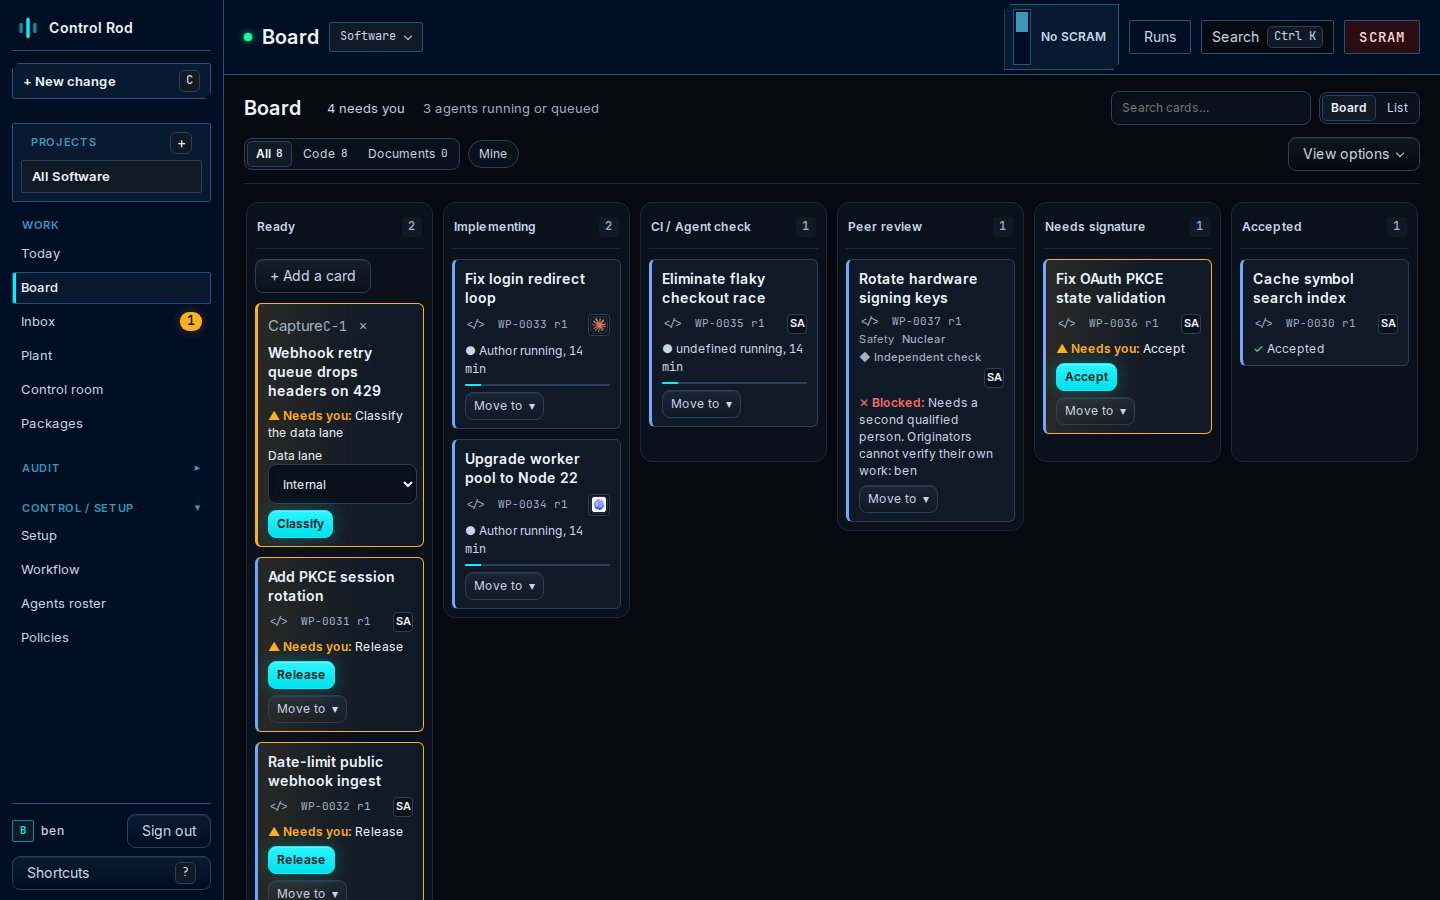
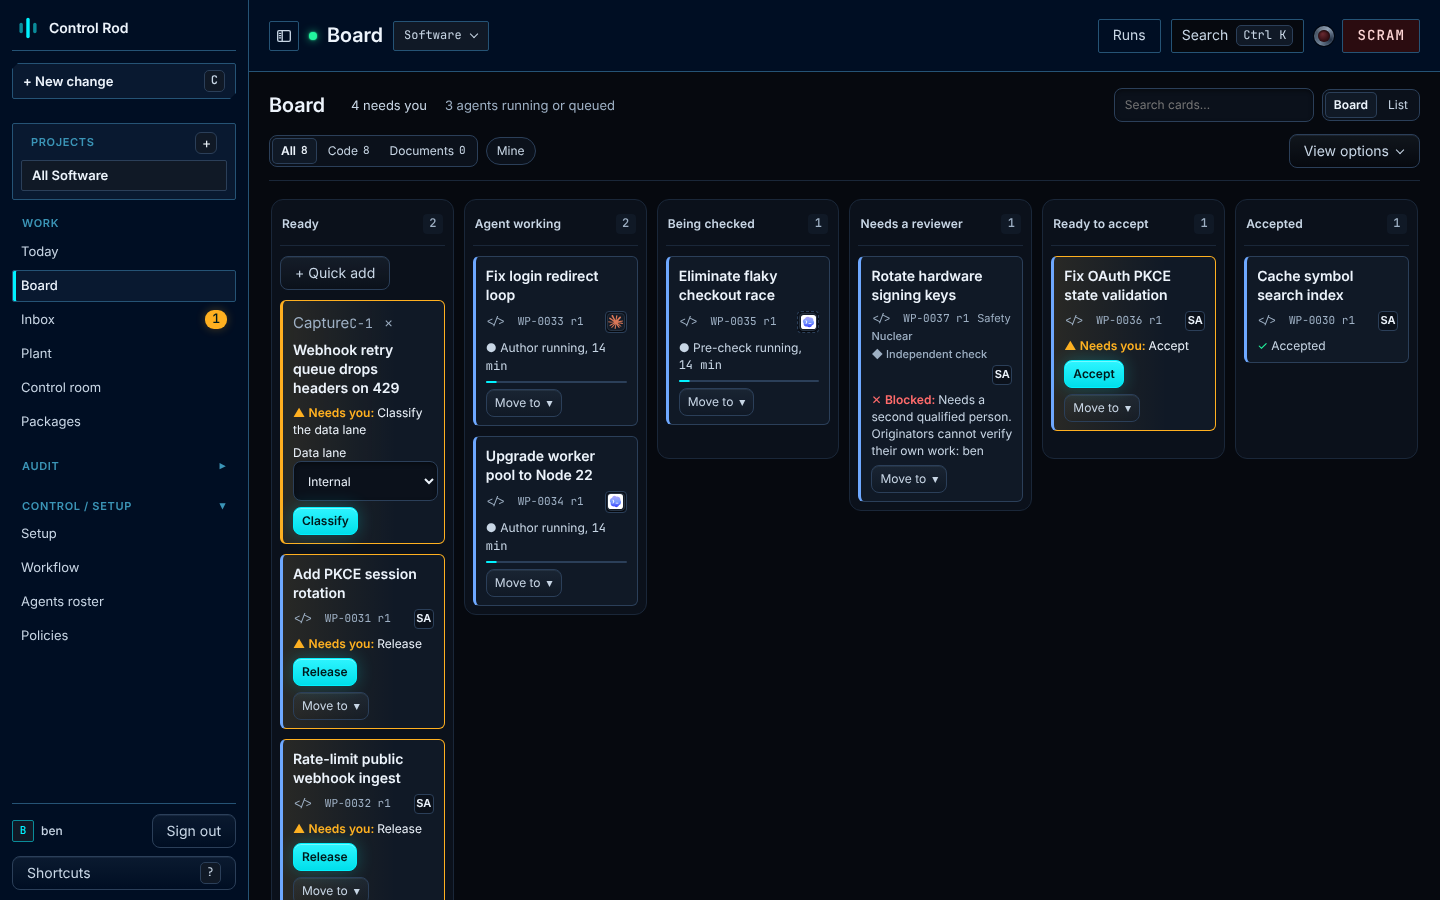
Refresh the README and website tour screenshots from current main
Plain column names in the board alt text; the sample pre-check run uses a real run role, and the
status line falls back to "Agent running" for an unknown role.

Claude-Session: https://claude.ai/code/session_01WRW9hbXhz7HgSQkBFuSFSx

diff --git a/site/app.js b/site/app.js
@@ -382,7 +382,7 @@ bytes of the diff and test output alone.`;
   const SHOTS = {
     board: {
       src: "./assets/readme/app/board.png",
-      alt: "The Control Rod Board with cards across Ready, Implementing, CI / Agent check, Peer review, Needs signature, and Accepted.",
+      alt: "The Control Rod Board with cards across Ready, Agent working, Being checked, Needs a reviewer, Ready to accept, and Accepted.",
       title: "The Board — calm when healthy, unmistakable when waiting on you",
       desc: "Cards move left to right only through signed decisions and recorded checks. Items waiting on you sort to the top in warm amber; healthy work stays quiet.",
       route: "Route: /",

diff --git a/apps/web/src/lib/next.ts b/apps/web/src/lib/next.ts
@@ -84,7 +84,7 @@ export function runLine(run: Run | undefined): NextLine {
   if (!run) return { tone: "wait", text: "Author running" };
   const label = run.label?.trim();
   if (run.status === "running") {
-    return { tone: "wait", text: label && label.length > 0 ? label : `${RUN_ROLE_WORD[run.role]} running`, ...(run.started_at ? { since: run.started_at } : {}) };
+    return { tone: "wait", text: label && label.length > 0 ? label : `${RUN_ROLE_WORD[run.role] ?? "Agent"} running`, ...(run.started_at ? { since: run.started_at } : {}) };
   }
   return { tone: "wait", text: label && label.length > 0 ? label : `${RUN_ROLE_WORD[run.role]} queued` };
 }

diff --git a/site/index.html b/site/index.html
@@ -500,7 +500,7 @@ pnpm cr start         # opens the Control Rod workspace at http://localhost:7300
           <img
             id="tour-img"
             src="./assets/readme/app/board.png"
-            alt="The Control Rod Board: cards move from Ready through Implementing, CI / Agent check, Peer review, and Needs signature to Accepted."
+            alt="The Control Rod Board: cards move from Ready through Agent working, Being checked, Needs a reviewer, and Ready to accept to Accepted."
           />
           <div class="shot-meta">
             <div>

diff --git a/apps/web/e2e/readme-shots.spec.ts b/apps/web/e2e/readme-shots.spec.ts
@@ -408,7 +408,7 @@ async function mockBoard(page: import("@playwright/test").Page) {
             id: `R-${id}`,
             package_id: id,
             package_revision: 1,
-            role: id === "WP-0035" ? "checker" : "author",
+            role: id === "WP-0035" ? "pre-check" : "author",
             status: "running",
             round: 1,
             agent_baseline: id === "WP-0035" ? "checker-codex" : "software-author",

diff --git a/.nuclear/changes/tour-shots-refresh/verification.md b/.nuclear/changes/tour-shots-refresh/verification.md
@@ -1,0 +1,32 @@
+# Verification: Refresh the README and website tour screenshots
+
+- E-01: `THEME_TEST_RELEASE=true SHOTS_DIR=... playwright test e2e/readme-shots.spec.ts --project=chromium` passes; six pictures checked by eye.
+- E-02: `node --test scripts/test/site.test.mjs`: 4 pass.
+- E-03: web `vitest run src/lib`: 194 pass.
+- Blind check: pending.
+
+## Evidence custody and coupling
+
+| Evidence ID | Claim ID | Decisive? | Artifact / raw result | Change actor | Generated by | Selected by | Transformed / summarized by | Executed / captured by | Retained by | Presented by | Verified / witnessed by |
+|---|---|---|---|---|---|---|---|---|---|---|---|
+| E-01 | TS-01 | yes | docs/assets/readme/app/*.png | Implementing agent | Playwright readme-shots spec | Implementing agent | Implementing agent | Local toolchain | This repository | Implementing agent | Self-check |
+| E-02 | TS-02 | yes | node test output in the PR session | Implementing agent | node --test | Implementing agent | Implementing agent | Local toolchain | PR checks | Implementing agent | Self-check |
+| E-03 | TS-03 | yes | vitest output in the PR session | Implementing agent | vitest | Implementing agent | Implementing agent | Local toolchain | PR checks | Implementing agent | Self-check |
+
+| Evidence ID | Actor | Context | Mechanism | Authority | Resource | Classification | Admissibility / residual-risk disposition |
+|---|---|---|---|---|---|---|---|
+| E-01 | coupled: implementing agent | coupled: implementation session | separated: deterministic release build and fixtures | separated: owner retains merge decision | coupled: local machine | self-check | sample fixtures, Chromium only  [Ship limits](ship.md) |
+| E-02 | coupled: implementing agent | coupled: implementation session | separated: deterministic local test tools | separated: owner retains merge decision | coupled: local machine | self-check | static page checks  [Ship limits](ship.md) |
+| E-03 | coupled: implementing agent | coupled: implementation session | separated: deterministic local test tools | separated: owner retains merge decision | coupled: local machine | self-check | jsdom  [Ship limits](ship.md) |
+
+## Required links
+
+[Risk](risk.md), [basis](basis.md), [plan](plan.md), [trace](trace.md), [verification](verification.md), [ship](ship.md).
+
+## Exit criteria
+
+The README and website tour pictures come from the current main (plain column names, calm drawer, resizable rail, one SCRAM button), the board alt text names the columns the picture shows, and no card reads "undefined running". The shots spec, site tests and web lib tests pass.
+
+## Source-lineage note
+
+Local engineering evidence using the repository workflow, not a compliance certification. Workflow source map: https://github.com/FlyFission/nuclear-grade-context-engineering/blob/main/docs/00-standards-foundation/source-map.md.

diff --git a/.nuclear/changes/tour-shots-refresh/basis.md b/.nuclear/changes/tour-shots-refresh/basis.md
@@ -1,0 +1,32 @@
+# Basis: Refresh the README and website tour screenshots
+
+**Change slug:** `tour-shots-refresh`
+**Owner:** Ben Huffer
+**Date:** 2026-11-25
+**Status:** Built, for owner review.
+
+## Mission / need
+
+The PR #194 blind check found the website tour still showed the old Software column names. The coordinator asked for a refresh once the drawer (#195), rail (#192) and SCRAM (#190) changes were on main; all three merged by 2026-11-25 03:45 UTC.
+
+## Proposal
+
+1. Retake all six tour pictures with the existing `apps/web/e2e/readme-shots.spec.ts` (release build, recorded sample fixtures) and store them in `docs/assets/readme/app/`.
+2. Update the board's alt text in README.md, site/index.html and site/app.js to the plain column names.
+3. The spec's sample pre-check run used role `checker`, which is not a run role, so the card read "undefined running". Use `pre-check`, and give the status line a fallback word ("Agent running") for any role it does not know.
+
+## Out of scope
+
+`.github/`, `spec/`, `services/`, `daemon/`, `kernel/`, `policies/`.
+
+## Required links
+
+[Risk](risk.md), [basis](basis.md), [plan](plan.md), [trace](trace.md), [verification](verification.md), [ship](ship.md).
+
+## Exit criteria
+
+The README and website tour pictures come from the current main (plain column names, calm drawer, resizable rail, one SCRAM button), the board alt text names the columns the picture shows, and no card reads "undefined running". The shots spec, site tests and web lib tests pass.
+
+## Source-lineage note
+
+Local engineering evidence using the repository workflow, not a compliance certification. Workflow source map: https://github.com/FlyFission/nuclear-grade-context-engineering/blob/main/docs/00-standards-foundation/source-map.md.

diff --git a/README.md b/README.md
@@ -11,7 +11,7 @@
 
 **Control Rod** is a free, open-source multi-agent harness that runs on your own machine. Bring the command-line subscriptions you already pay for (**Claude Code** and **Codex** today, with zero API keys and zero cloud account), drop in what you want built, and let one agent work inside an isolated git worktree while a **different vendor's agent** checks only the diff and test evidence behind a blind wall. A deterministic **Rust/WASM kernel** decides every state transition, your passkey signs at release and at acceptance, and each accepted change exports a tamper-evident **PR receipt** anyone can verify offline.
 
-![The Control Rod Board: cards move from Ready through Implementing, CI / Agent check, Peer review, and Needs signature to Accepted, with warm amber reserved only for cards waiting on you.](docs/assets/readme/app/board.png)
+![The Control Rod Board: cards move from Ready through Agent working, Being checked, Needs a reviewer, and Ready to accept to Accepted, with warm amber reserved only for cards waiting on you.](docs/assets/readme/app/board.png)
 
 ![Control Rod multi-agent council loop: your passkey release feeds an isolated author worktree, crosses a blind wall that strips author reasoning, enters a cross-vendor blind checker, and seals an offline-verifiable PR receipt under Rust/WASM kernel custody.](docs/assets/readme/council-loop.svg)
 

diff --git a/.nuclear/changes/tour-shots-refresh/trace.md b/.nuclear/changes/tour-shots-refresh/trace.md
@@ -1,0 +1,19 @@
+# Trace: Refresh the README and website tour screenshots
+
+| Claim ID | Need | Code | Test |
+| --- | --- | --- | --- |
+| TS-01 | Current tour pictures | `docs/assets/readme/app/*.png`, `apps/web/e2e/readme-shots.spec.ts` | readme-shots spec |
+| TS-02 | Alt text matches the picture | `README.md`, `site/index.html`, `site/app.js` | `scripts/test/site.test.mjs` |
+| TS-03 | No "undefined running" | `apps/web/src/lib/next.ts` | web `src/lib` vitest |
+
+## Required links
+
+[Risk](risk.md), [basis](basis.md), [plan](plan.md), [trace](trace.md), [verification](verification.md), [ship](ship.md).
+
+## Exit criteria
+
+The README and website tour pictures come from the current main (plain column names, calm drawer, resizable rail, one SCRAM button), the board alt text names the columns the picture shows, and no card reads "undefined running". The shots spec, site tests and web lib tests pass.
+
+## Source-lineage note
+
+Local engineering evidence using the repository workflow, not a compliance certification. Workflow source map: https://github.com/FlyFission/nuclear-grade-context-engineering/blob/main/docs/00-standards-foundation/source-map.md.

diff --git a/.nuclear/changes/tour-shots-refresh/ship.md b/.nuclear/changes/tour-shots-refresh/ship.md
@@ -1,0 +1,22 @@
+# Ship: Refresh the README and website tour screenshots
+
+Release decision: **pending the owner's yes.**
+
+## Signature
+
+Owner (sole maintainer): pending.
+
+- Rollback: revert the merge. No data, route or migration.
+- Monitoring after merge: the README and the site tour show the plain column names and the current top bar; the readme-shots workflow may push the same pictures again on this PR.
+
+## Required links
+
+[Risk](risk.md), [basis](basis.md), [plan](plan.md), [trace](trace.md), [verification](verification.md), [ship](ship.md).
+
+## Exit criteria
+
+The README and website tour pictures come from the current main (plain column names, calm drawer, resizable rail, one SCRAM button), the board alt text names the columns the picture shows, and no card reads "undefined running". The shots spec, site tests and web lib tests pass.
+
+## Source-lineage note
+
+Local engineering evidence using the repository workflow, not a compliance certification. Workflow source map: https://github.com/FlyFission/nuclear-grade-context-engineering/blob/main/docs/00-standards-foundation/source-map.md.

diff --git a/.nuclear/changes/tour-shots-refresh/risk.md b/.nuclear/changes/tour-shots-refresh/risk.md
@@ -1,0 +1,22 @@
+# Risk: Refresh the README and website tour screenshots
+
+- Pictures are binary and reviewed by eye; a wrong picture misleads readers but changes no behaviour.
+- The status-line fallback only changes text for a role the web does not know.
+- No trust surface is touched.
+
+## Selected mode
+
+- **Mode:** Standard
+- Basis: docs pictures, alt text and a one-word fallback; reversible by revert.
+
+## Required links
+
+[Risk](risk.md), [basis](basis.md), [plan](plan.md), [trace](trace.md), [verification](verification.md), [ship](ship.md).
+
+## Exit criteria
+
+The README and website tour pictures come from the current main (plain column names, calm drawer, resizable rail, one SCRAM button), the board alt text names the columns the picture shows, and no card reads "undefined running". The shots spec, site tests and web lib tests pass.
+
+## Source-lineage note
+
+Local engineering evidence using the repository workflow, not a compliance certification. Workflow source map: https://github.com/FlyFission/nuclear-grade-context-engineering/blob/main/docs/00-standards-foundation/source-map.md.

diff --git a/.nuclear/changes/tour-shots-refresh/plan.md b/.nuclear/changes/tour-shots-refresh/plan.md
@@ -1,0 +1,18 @@
+# Plan: Refresh the README and website tour screenshots
+
+1. Fix the sample run role and add the status-line fallback.
+2. Run the readme-shots spec in Chromium; check each picture by eye.
+3. Copy the pictures, update the three alt texts.
+4. Site tests, web lib tests, Codex blind check, owner yes.
+
+## Required links
+
+[Risk](risk.md), [basis](basis.md), [plan](plan.md), [trace](trace.md), [verification](verification.md), [ship](ship.md).
+
+## Exit criteria
+
+The README and website tour pictures come from the current main (plain column names, calm drawer, resizable rail, one SCRAM button), the board alt text names the columns the picture shows, and no card reads "undefined running". The shots spec, site tests and web lib tests pass.
+
+## Source-lineage note
+
+Local engineering evidence using the repository workflow, not a compliance certification. Workflow source map: https://github.com/FlyFission/nuclear-grade-context-engineering/blob/main/docs/00-standards-foundation/source-map.md.
